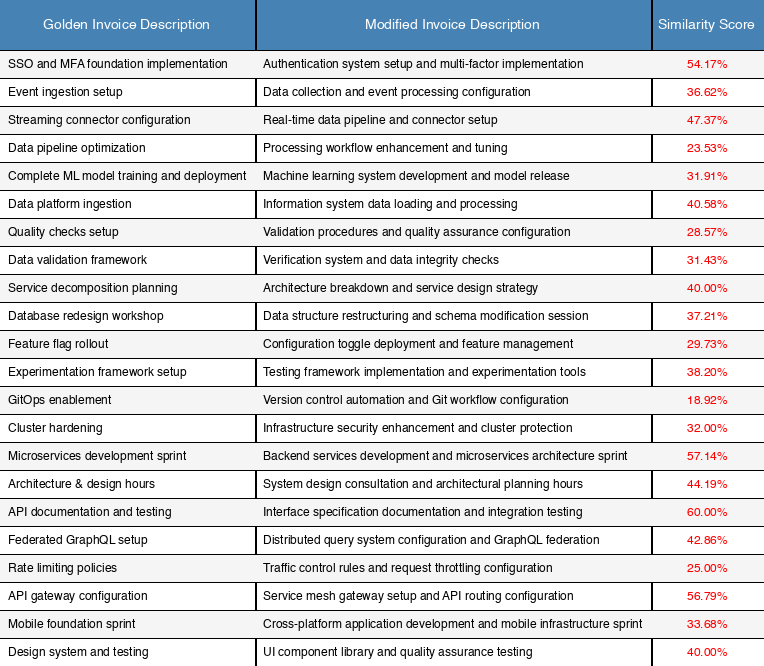
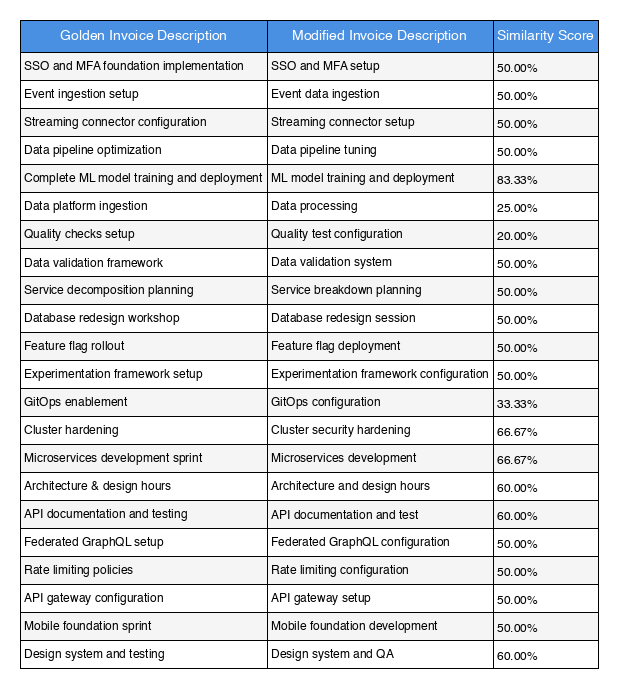
Update invoice descriptions to be similar but not identical, and regenerate comparison PNG with tighter columns

diff --git a/line_item_description_discrepency/generate_comparison.py b/line_item_description_discrepency/generate_comparison.py
@@ -1,0 +1,206 @@
+#!/usr/bin/env python3
+"""
+Generate a comparison PNG showing golden invoice descriptions vs modified invoice descriptions
+with similarity scores.
+"""
+
+import json
+import os
+from pathlib import Path
+from PIL import Image, ImageDraw, ImageFont
+import textwrap
+
+def load_invoice(filepath):
+    """Load and return invoice JSON data."""
+    with open(filepath, 'r') as f:
+        return json.load(f)
+
+def calculate_similarity(text1, text2):
+    """
+    Calculate a simple similarity score based on word overlap.
+    Returns a percentage (0-100).
+    """
+    words1 = set(text1.lower().split())
+    words2 = set(text2.lower().split())
+    
+    if not words1 and not words2:
+        return 100.0
+    if not words1 or not words2:
+        return 0.0
+    
+    intersection = words1.intersection(words2)
+    union = words1.union(words2)
+    
+    # Jaccard similarity
+    similarity = len(intersection) / len(union) if union else 0.0
+    return similarity * 100
+
+def get_all_descriptions():
+    """Extract all descriptions from golden and modified invoices."""
+    base_dir = Path(__file__).parent
+    golden_dir = base_dir.parent / "golden_invoices"
+    
+    comparisons = []
+    
+    # Get all modified invoices (without '_')
+    modified_files = sorted(base_dir.glob("invoice_*.json"))
+    modified_files = [f for f in modified_files if not f.name.startswith('_')]
+    
+    for modified_file in modified_files:
+        # Find corresponding golden invoice
+        golden_file = golden_dir / modified_file.name
+        
+        if not golden_file.exists():
+            continue
+        
+        golden_invoice = load_invoice(golden_file)
+        modified_invoice = load_invoice(modified_file)
+        
+        # Match line items by item_id
+        golden_items = {item['item_id']: item for item in golden_invoice.get('line_items', [])}
+        modified_items = {item['item_id']: item for item in modified_invoice.get('line_items', [])}
+        
+        # Compare matching items
+        for item_id in golden_items:
+            if item_id in modified_items:
+                golden_desc = golden_items[item_id]['description']
+                modified_desc = modified_items[item_id]['description']
+                similarity = calculate_similarity(golden_desc, modified_desc)
+                
+                comparisons.append({
+                    'golden': golden_desc,
+                    'modified': modified_desc,
+                    'similarity': similarity
+                })
+    
+    return comparisons
+
+def create_comparison_image(comparisons, output_path):
+    """Create a PNG image with the comparison table."""
+    # Try to use a nice font, fallback to default
+    try:
+        font = ImageFont.truetype("/System/Library/Fonts/Helvetica.ttc", 12)
+        header_font = ImageFont.truetype("/System/Library/Fonts/Helvetica.ttc", 14)
+    except:
+        try:
+            font = ImageFont.truetype("arial.ttf", 12)
+            header_font = ImageFont.truetype("arial.ttf", 14)
+        except:
+            font = ImageFont.load_default()
+            header_font = ImageFont.load_default()
+    
+    # Create a temporary draw object to measure text
+    temp_img = Image.new('RGB', (100, 100), color='white')
+    temp_draw = ImageDraw.Draw(temp_img)
+    
+    # Calculate column widths based on actual text width
+    headers = ["Golden Invoice Description", "Modified Invoice Description", "Similarity Score"]
+    
+    # Measure header widths
+    header_widths = []
+    for header in headers:
+        bbox = temp_draw.textbbox((0, 0), header, font=header_font)
+        header_widths.append(bbox[2] - bbox[0])
+    
+    # Measure content widths
+    golden_widths = []
+    modified_widths = []
+    similarity_widths = []
+    
+    for comp in comparisons:
+        # Golden description
+        bbox = temp_draw.textbbox((0, 0), comp['golden'], font=font)
+        golden_widths.append(bbox[2] - bbox[0])
+        
+        # Modified description
+        bbox = temp_draw.textbbox((0, 0), comp['modified'], font=font)
+        modified_widths.append(bbox[2] - bbox[0])
+        
+        # Similarity score
+        similarity_text = f"{comp['similarity']:.2f}%"
+        bbox = temp_draw.textbbox((0, 0), similarity_text, font=font)
+        similarity_widths.append(bbox[2] - bbox[0])
+    
+    # Calculate column widths (max of header and content, plus small padding)
+    cell_padding = 8  # Horizontal padding in cells
+    col_widths = [
+        max(max(golden_widths) if golden_widths else 0, header_widths[0]) + cell_padding,
+        max(max(modified_widths) if modified_widths else 0, header_widths[1]) + cell_padding,
+        max(max(similarity_widths) if similarity_widths else 0, header_widths[2]) + cell_padding
+    ]
+    
+    # Image dimensions - minimized margins
+    margin = 20
+    cell_padding_vertical = 4  # Top and bottom padding in cells
+    row_height = 28  # Reduced row height
+    header_height = 32  # Reduced header height
+    
+    width = sum(col_widths) + margin * 2
+    height = header_height + len(comparisons) * row_height + margin * 2
+    
+    # Create image
+    img = Image.new('RGB', (width, height), color='white')
+    draw = ImageDraw.Draw(img)
+    
+    # Draw header
+    y = margin
+    x = margin
+    for i, header in enumerate(headers):
+        draw.rectangle([x, y, x + col_widths[i], y + header_height], 
+                      fill='#4A90E2', outline='black', width=1)
+        # Center text
+        bbox = draw.textbbox((0, 0), header, font=header_font)
+        text_width = bbox[2] - bbox[0]
+        text_height = bbox[3] - bbox[1]
+        draw.text((x + (col_widths[i] - text_width) // 2, 
+                  y + (header_height - text_height) // 2),
+                 header, fill='white', font=header_font)
+        x += col_widths[i]
+    
+    # Draw rows
+    y = margin + header_height
+    for comp in comparisons:
+        x = margin
+        row_data = [
+            comp['golden'],
+            comp['modified'],
+            f"{comp['similarity']:.2f}%"
+        ]
+        
+        for i, text in enumerate(row_data):
+            # Draw cell background
+            fill_color = '#F5F5F5' if y % (row_height * 2) == margin + header_height else 'white'
+            draw.rectangle([x, y, x + col_widths[i], y + row_height],
+                          fill=fill_color, outline='black', width=1)
+            
+            # Draw text
+            bbox = draw.textbbox((0, 0), text, font=font)
+            text_height = bbox[3] - bbox[1]
+            
+            draw.text((x + cell_padding // 2, y + (row_height - text_height) // 2),
+                     text, fill='black', font=font)
+            
+            x += col_widths[i]
+        
+        y += row_height
+    
+    # Save image
+    img.save(output_path)
+    print(f"Comparison image saved to {output_path}")
+
+def main():
+    base_dir = Path(__file__).parent
+    output_path = base_dir / "description_discrepancy_comparison.png"
+    
+    print("Extracting descriptions from invoices...")
+    comparisons = get_all_descriptions()
+    
+    print(f"Found {len(comparisons)} line item comparisons")
+    print("Generating comparison image...")
+    create_comparison_image(comparisons, output_path)
+    
+    print("Done!")
+
+if __name__ == "__main__":
+    main()
+
